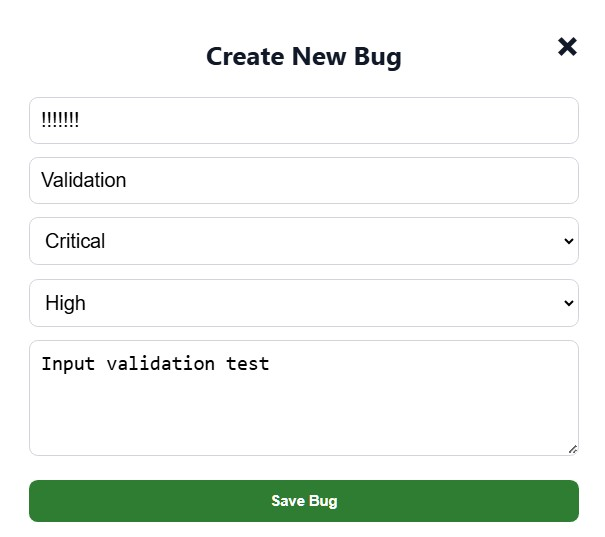
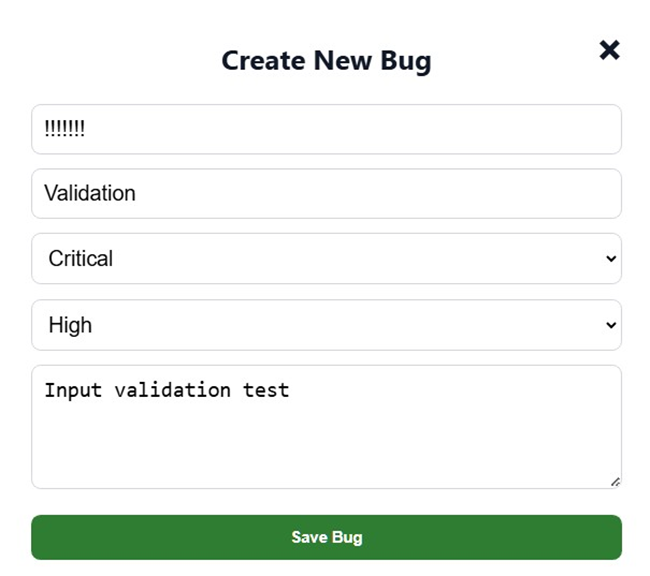
Improve bug report evidence and documentation standards

diff --git a/docs/documentation-standards.md b/docs/documentation-standards.md
@@ -1,0 +1,10 @@
+# Documentation Standards
+
+## Screenshots
+
+- PNG format
+- Light theme
+- Browser UI hidden whenever possible
+- Capture only the relevant application area
+- Consistent naming convention
+- One screenshot per significant application state